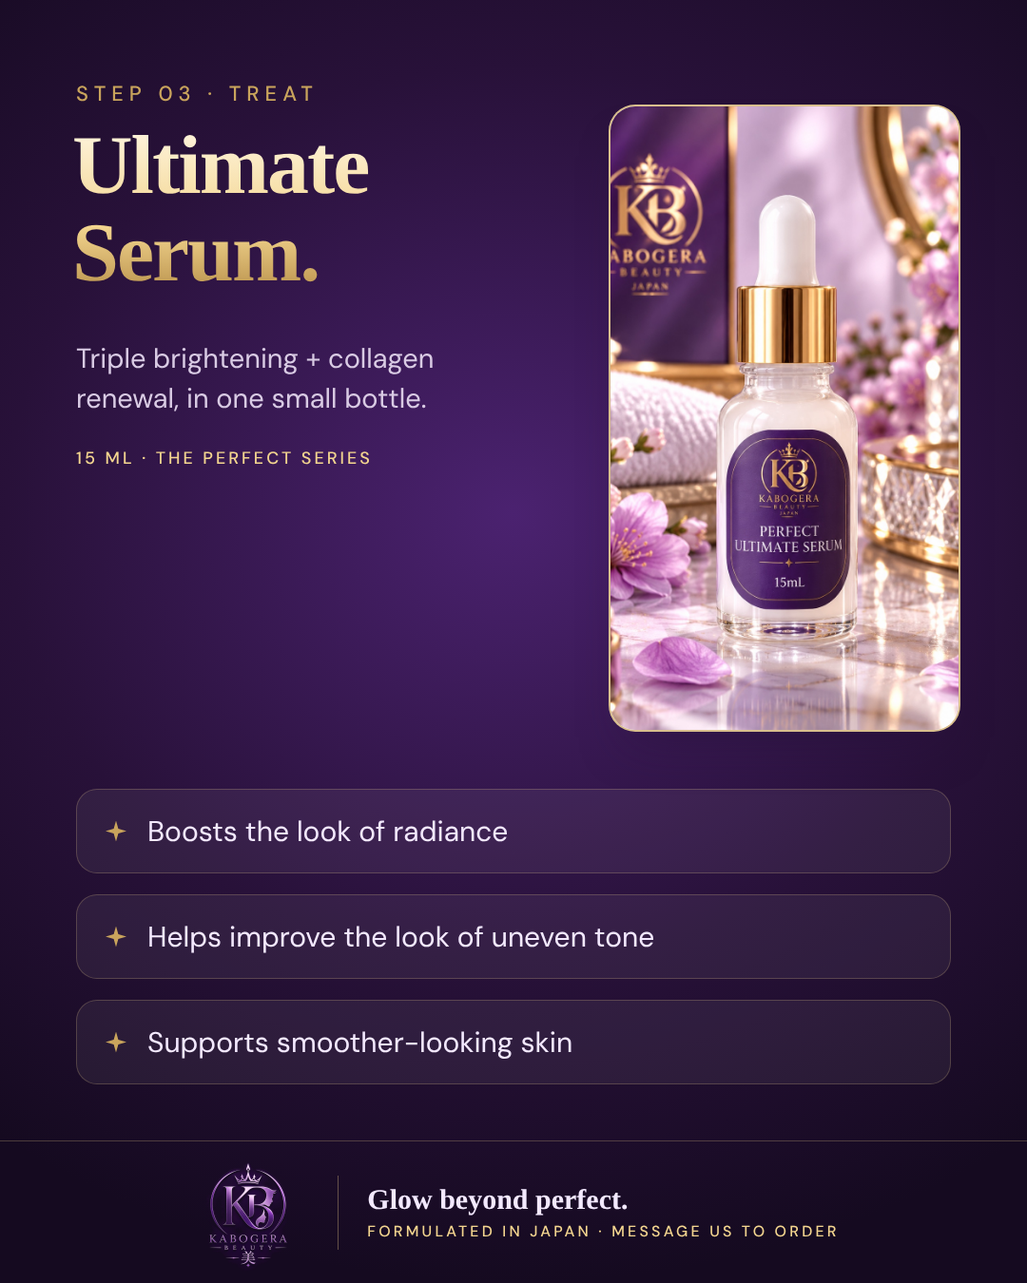
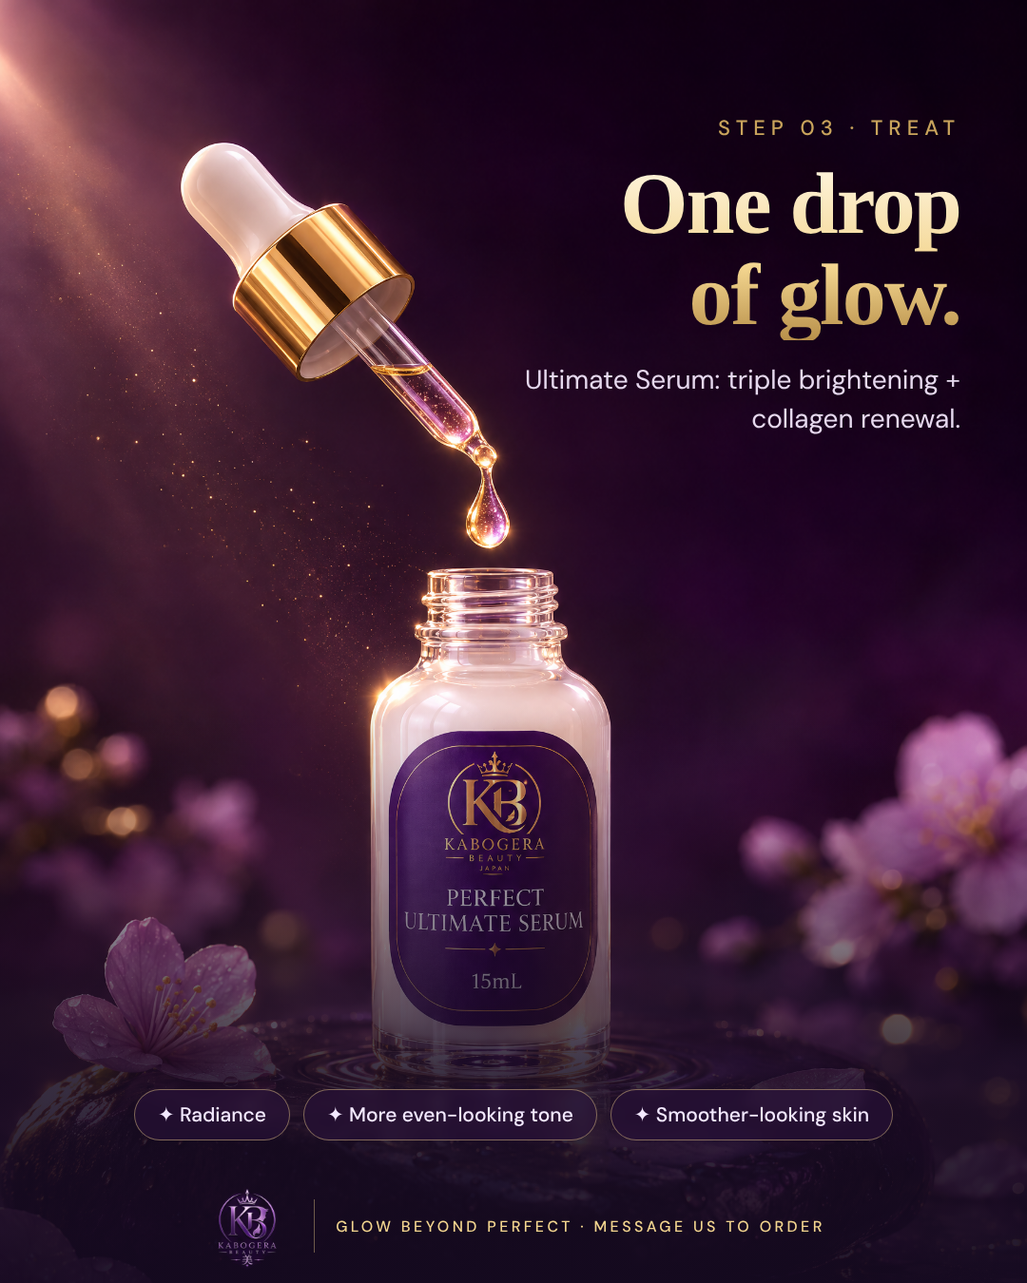
Rebuild five feed posts around new generated product scenes
Claude-Session: https://claude.ai/code/session_018m6AS44vmDstnCJZ4AYpxV

diff --git a/ads/03-feed-posts/04-am-pm-routine.html b/ads/03-feed-posts/04-am-pm-routine.html
@@ -1,34 +1,35 @@
 <!doctype html><html lang="en"><head><meta charset="utf-8"><link rel="stylesheet" href="brand.css"><title>Kabogera post</title><style>
-.p4 { background: var(--cream); }
-.p4 .half { position:absolute; top:0; bottom:150px; width:540px; padding:90px 0 0; text-align:center; }
-.p4 .am { left:0; background: linear-gradient(180deg, #fbf3e4 0%, #f6efe9 100%); }
-.p4 .pm { right:0; background: radial-gradient(ellipse at 50% 30%, #4b2270, #281139 70%); color:#f3e9ff; }
-.p4 .ic { font:400 54px/1 Serif; color:var(--gold); }
-.p4 .t { margin-top:14px; font:600 76px/1 Serif; letter-spacing:-1px; }
-.p4 .am .t { color:var(--violet); } .p4 .pm .t { color:#fff3dc; }
-.p4 .s { margin-top:12px; font:500 17px Sans; letter-spacing:4px; color:var(--gold); }
-.p4 .steps { margin:64px auto 0; width:440px; display:grid; gap:34px; }
-.p4 .st { display:flex; align-items:center; gap:22px; text-align:left; }
-.p4 .st .circ { width:150px; height:150px; flex:none; }
-.p4 .st b { display:block; font:600 17px Sans; letter-spacing:3px; color:var(--gold); }
-.p4 .st span { font:600 31px/1.2 Serif; }
-.p4 .am .st span { color:var(--violet); } .p4 .pm .st span { color:#f3e9ff; }
-.p4 .note { position:absolute; bottom:180px; left:0; right:0; text-align:center; }
-.p4 .note .fine { display:inline-block; background:rgba(255,255,255,.92); padding:10px 22px; border-radius:30px; color:#6c5a72; }
-</style></head><body><div class="post p4" id="post">
-  <div class="half am"><div class="ic">☀</div><div class="t">Morning</div><div class="s">FRESH · PROTECTED</div>
-    <div class="steps">
-      <div class="st"><div class="circ"><img src="../../brand/assets/perfect-bar-soap.jpeg" style="transform:scale(1.5)"></div><div><b>CLEANSE</b><span>Perfect Bar Soap</span></div></div>
-      <div class="st"><div class="circ"><img src="../../brand/assets/ultimate-serum.jpeg" style="object-position:50% 50%;transform:scale(1.5)"></div><div><b>TREAT</b><span>Ultimate Serum</span></div></div>
-      <div class="st"><div class="circ"><img src="../../brand/assets/illuminating-uv-gel.jpeg" style="transform:scale(1.5)"></div><div><b>PROTECT</b><span>Illuminating UV Gel SPF 50</span></div></div>
-    </div></div>
-  <div class="half pm"><div class="ic">☾</div><div class="t">Evening</div><div class="s">CLEANSE · RENEW</div>
-    <div class="steps">
-      <div class="st"><div class="circ"><img src="../../brand/assets/perfect-bar-soap.jpeg" style="transform:scale(1.5)"></div><div><b>CLEANSE</b><span>Perfect Bar Soap</span></div></div>
-      <div class="st"><div class="circ"><img src="../../brand/assets/multi-action-essence.jpeg" style="transform:scale(1.5)"></div><div><b>EXFOLIATE</b><span>Multi Action Essence*</span></div></div>
-      <div class="st"><div class="circ"><img src="../../brand/assets/ultimate-serum.jpeg" style="transform:scale(1.5)"></div><div><b>TREAT</b><span>Ultimate Serum</span></div></div>
-      <div class="st"><div class="circ"><img src="../../brand/assets/night-cream.jpeg" style="object-position:62% 55%;transform:scale(1.3)"></div><div><b>RENEW</b><span>Renew &amp; Resurfacing Night Cream</span></div></div>
-    </div></div>
-  <div class="note"><span class="fine">*Contains glycolic acid. Use as often as the label and your skin allow.</span></div>
-  <div class="band"><img src="../../brand/assets/kabogera-logo-cutout-512.png" alt=""><div class="sep"></div><div><div class="t1">Glow beyond perfect.</div><div class="t2">FORMULATED IN JAPAN · MESSAGE US TO ORDER</div></div></div>
+.bg { position:absolute; inset:0; width:100%; height:100%; object-fit:cover; }
+.foot { position:absolute; left:0; right:0; bottom:0; height:120px; display:flex; align-items:center; justify-content:center; gap:22px; color:#f3e9ff; }
+.foot img { width:96px; height:96px; } .foot .sep { width:1px; height:56px; background:rgba(243,213,143,.4); }
+.foot .t { font:500 16px Sans; letter-spacing:3.4px; color:var(--goldhi); }
+.pill { display:inline-block; padding:12px 24px; border-radius:40px; font:500 21px Sans; }
+
+.p .half { position:absolute; left:0; right:0; height:615px; overflow:hidden; }
+.p .am { top:0; } .p .pm { top:615px; }
+.p .half img { position:absolute; width:760px; height:950px; }
+.p .am { background:#fbf3e6; } .p .pm { background:#1d0d2a; }
+.p .am img { left:390px; top:-335px; } .p .pm img { left:380px; top:-330px; }
+.p .am::after { content:""; position:absolute; top:0; bottom:0; left:380px; width:160px; background:linear-gradient(90deg, #fbf3e6, rgba(251,243,230,0)); }
+.p .pm::after { content:""; position:absolute; top:0; bottom:0; left:370px; width:160px; background:linear-gradient(90deg, #1d0d2a, rgba(29,13,42,0)); }
+.p .lab { position:absolute; z-index:2; top:80px; width:400px; }
+.p .am .lab, .p .pm .lab { left:64px; }
+.p .lab .ic { font:400 46px/1 Serif; color:var(--gold); }
+.p .lab .t { font:600 76px/1.05 Serif; letter-spacing:-1px; margin-top:6px; }
+.p .am .t { color:var(--violet); } .p .pm .t { color:#fff3dc; }
+.p .lab ol { list-style:none; margin-top:20px; display:grid; gap:10px; font:500 24px Sans; }
+.p .am ol { color:#3f2f4b; } .p .pm ol { color:#eadff2; }
+.p .lab ol b { color:var(--gold); font-weight:600; margin-right:10px; }
+
+.p .fine2 { position:absolute; z-index:3; left:0; right:0; bottom:128px; text-align:center; font:400 16px Sans; color:rgba(234,223,242,.8); }
+.p .foot { background: rgba(21,10,32,.96); height:110px; z-index:3; }
+.p .line { position:absolute; left:0; right:0; top:613px; height:4px; background:linear-gradient(90deg, transparent, var(--gold), transparent); z-index:3; }
+</style></head><body><div class="post p" id="post" style="background:#150a20">
+  <div class="half am"><img src="images/morning.png"><div class="lab"><div class="ic">☀</div><div class="t">Morning</div>
+    <ol><li><b>01</b>Perfect Bar Soap</li><li><b>02</b>Ultimate Serum</li><li><b>03</b>UV Gel SPF 50</li></ol></div></div>
+  <div class="half pm"><img src="images/evening.png"><div class="lab"><div class="ic">☾</div><div class="t">Evening</div>
+    <ol><li><b>01</b>Perfect Bar Soap</li><li><b>02</b>Multi Action Essence*</li><li><b>03</b>Ultimate Serum</li><li><b>04</b>Night Cream</li></ol></div></div>
+  <div class="line"></div>
+  <div class="fine2">*Contains glycolic acid. Use as often as the label and your skin allow.</div>
+  <div class="foot"><img src="../../brand/assets/kabogera-logo-cutout-512.png" alt=""><div class="sep"></div><div class="t">GLOW BEYOND PERFECT · MESSAGE US TO ORDER</div></div>
 </div></body></html>

diff --git a/ads/03-feed-posts/03-bar-soap-ingredients.html b/ads/03-feed-posts/03-bar-soap-ingredients.html
@@ -1,26 +1,28 @@
 <!doctype html><html lang="en"><head><meta charset="utf-8"><link rel="stylesheet" href="brand.css"><title>Kabogera post</title><style>
-.p3 .eyebrow { position:absolute; top:84px; left:80px; }
-.p3 .h { position:absolute; top:128px; left:76px; width:600px; font-size:80px; }
-.p3 .lede { position:absolute; top:318px; left:80px; width:540px; font:400 27px/1.45 Sans; color:#5c4a68; }
-.p3 .card { position:absolute; top:84px; right:70px; width:300px; height:380px; transform:rotate(3deg); }
-.p3 .grid { position:absolute; top:520px; left:70px; right:70px; display:grid; grid-template-columns:1fr 1fr; gap:20px; }
-.p3 .ing { background:#fff; border-radius:24px; padding:28px 30px; border:1px solid rgba(201,164,92,.45); box-shadow:0 20px 34px -26px rgba(72,36,102,.5); }
-.p3 .ing b { display:block; font:600 32px Serif; color:var(--violet); margin-bottom:8px; }
-.p3 .ing span { font:400 23px/1.4 Sans; color:#5c4a68; }
-.p3 .ing.wide { grid-column: span 2; }
-.p3 .fine { position:absolute; top:1146px; left:80px; right:80px; }
-</style></head><body><div class="post light p3" id="post">
-  <div class="eyebrow">KNOW YOUR SKINCARE</div>
-  <div class="h">What's in your Perfect Bar Soap.</div>
-  <div class="lede">Step 01 of the ritual: a refreshing cleanse that prepares skin for the next steps.</div>
-  <div class="card"><img src="../../brand/assets/perfect-bar-soap.jpeg" style="object-position:50% 55%"></div>
-  <div class="grid">
-    <div class="ing"><b>Niacinamide</b><span>Supports a more even-looking skin tone.</span></div>
-    <div class="ing"><b>Glycolic acid</b><span>An exfoliating AHA.</span></div>
-    <div class="ing"><b>Glutathione</b><span>An antioxidant ingredient.</span></div>
-    <div class="ing"><b>Glycerin &amp; panthenol</b><span>With sodium lactate, help support skin hydration.</span></div>
-    <div class="ing wide"><b>Bearberry, licorice &amp; papaya</b><span>Botanical extracts included in the formula.</span></div>
-  </div>
+.bg { position:absolute; inset:0; width:100%; height:100%; object-fit:cover; }
+.foot { position:absolute; left:0; right:0; bottom:0; height:120px; display:flex; align-items:center; justify-content:center; gap:22px; color:#f3e9ff; }
+.foot img { width:96px; height:96px; } .foot .sep { width:1px; height:56px; background:rgba(243,213,143,.4); }
+.foot .t { font:500 16px Sans; letter-spacing:3.4px; color:var(--goldhi); }
+.pill { display:inline-block; padding:12px 24px; border-radius:40px; font:500 21px Sans; }
+
+.p .txt { position:absolute; left:0; right:0; top:84px; text-align:center; }
+.p .h { font-size:82px; }
+.p .tag { position:absolute; padding:12px 20px; border-radius:18px; background:rgba(255,255,255,.93); box-shadow:0 14px 26px -16px rgba(72,36,102,.55); border:1px solid rgba(201,164,92,.5); }
+.p .tag b { display:block; font:600 25px Serif; color:var(--violet); } .p .tag span { font:400 17px Sans; color:#5c4a68; }
+.p .tag::before { content:""; position:absolute; width:12px; height:12px; border-radius:50%; background:var(--gold); border:3px solid #fff; box-shadow:0 0 0 1px var(--gold); }
+.p .t1 { left:60px; top:370px; } .p .t1::before { right:-10px; top:50%; }
+.p .t2 { right:56px; top:360px; } .p .t2::before { left:-10px; top:50%; }
+.p .t3 { right:40px; top:1000px; text-align:right; } .p .t3::before { left:-10px; top:20%; }
+.p .t4 { left:50px; top:1010px; }  .p .t4::before { right:-10px; top:30%; }
+.p .sub3 { margin-top:14px; font:500 24px Sans; color:#4a3a56; }
+.p .fine { position:absolute; left:0; right:0; bottom:110px; height:44px; line-height:44px; text-align:center; color:#f3e9ff; background:rgba(40,17,57,.85); font-size:16px; }
+.p .foot { background: linear-gradient(0deg, rgba(40,17,57,.95), rgba(40,17,57,.85)); height:110px; }
+</style></head><body><div class="post light p" id="post">
+  <img class="bg" src="images/soap-ingredients.png">
+  <div class="txt"><div class="eyebrow" style="margin-bottom:14px">KNOW YOUR SKINCARE</div><div class="h">Inside the Perfect Bar Soap.</div><div class="sub3">With niacinamide, glycolic acid, glutathione &amp; glycerin, plus botanicals:</div></div>
+  <div class="tag t1"><b>Papaya extract</b><span>A botanical in the formula</span></div>
+  <div class="tag t2"><b>Bearberry extract</b><span>A botanical in the formula</span></div>
+  <div class="tag t3"><b>Licorice extract</b><span>A botanical in the formula</span></div>
   <div class="fine">From our product label. Results depend on the complete formula and your skin. Patch test first.</div>
-  <div class="band"><img src="../../brand/assets/kabogera-logo-cutout-512.png" alt=""><div class="sep"></div><div><div class="t1">Glow beyond perfect.</div><div class="t2">FORMULATED IN JAPAN · MESSAGE US TO ORDER</div></div></div>
+  <div class="foot"><img src="../../brand/assets/kabogera-logo-cutout-512.png" alt=""><div class="sep"></div><div class="t">GLOW BEYOND PERFECT · MESSAGE US TO ORDER</div></div>
 </div></body></html>

diff --git a/ads/03-feed-posts/02-uv-gel-spf50.html b/ads/03-feed-posts/02-uv-gel-spf50.html
@@ -1,26 +1,21 @@
 <!doctype html><html lang="en"><head><meta charset="utf-8"><link rel="stylesheet" href="brand.css"><title>Kabogera post</title><style>
-.p2 .eyebrow { position:absolute; top:84px; left:0; right:0; text-align:center; }
-.p2 .h { position:absolute; top:130px; left:0; right:0; text-align:center; font-size:104px; }
-.p2 .ring { position:absolute; left:50%; top:330px; width:640px; height:640px; margin-left:-320px; border-radius:50%;
-  background: radial-gradient(circle, #fff7e4 0%, #f9ecd0 45%, rgba(249,236,208,0) 70%); }
-.p2 .ring::before { content:""; position:absolute; inset:40px; border-radius:50%; border:2px dashed rgba(201,164,92,.6); }
-.p2 .ring::after { content:""; position:absolute; inset:100px; border-radius:50%; border:3px solid var(--gold); }
-.p2 .circ { position:absolute; left:50%; top:470px; width:360px; height:360px; margin-left:-180px; }
-.p2 .badge { position:absolute; left:calc(50% + 110px); top:430px; width:150px; height:150px; border-radius:50%; background:var(--plum); color:var(--goldhi);
-  display:flex; flex-direction:column; align-items:center; justify-content:center; box-shadow:0 18px 30px -14px rgba(40,17,57,.6); border:3px solid var(--gold); }
-.p2 .badge b { font:600 54px/1 Serif; } .p2 .badge span { font:600 15px Sans; letter-spacing:3px; margin-top:4px; }
-.p2 .name { position:absolute; top:1000px; left:0; right:0; text-align:center; font:600 40px Serif; color:var(--violet); }
-.p2 .lines { position:absolute; top:1062px; left:0; right:0; display:flex; justify-content:center; gap:16px; }
-.p2 .lines span { padding:12px 22px; border-radius:40px; background:#fff; border:1px solid rgba(201,164,92,.6); font:500 21px Sans; color:var(--ink); }
-.p2 .fine { position:absolute; top:1140px; left:0; right:0; text-align:center; }
-</style></head><body><div class="post light p2" id="post">
-  <div class="eyebrow">STEP 04 · PROTECT</div>
-  <div class="h">Don't skip SPF.</div>
-  <div class="ring"></div>
-  <div class="circ"><img src="../../brand/assets/illuminating-uv-gel.jpeg" style="object-position:50% 42%;transform:scale(1.45)"></div>
+.bg { position:absolute; inset:0; width:100%; height:100%; object-fit:cover; }
+.foot { position:absolute; left:0; right:0; bottom:0; height:120px; display:flex; align-items:center; justify-content:center; gap:22px; color:#f3e9ff; }
+.foot img { width:96px; height:96px; } .foot .sep { width:1px; height:56px; background:rgba(243,213,143,.4); }
+.foot .t { font:500 16px Sans; letter-spacing:3.4px; color:var(--goldhi); }
+.pill { display:inline-block; padding:12px 24px; border-radius:40px; font:500 21px Sans; }
+
+.p .txt { position:absolute; left:80px; top:110px; width:640px; }
+.p .h { font-size:112px; line-height:.98; }
+.p .lede { margin-top:24px; font:400 29px/1.45 Sans; color:#4a3a56; width:520px; }
+.p .badge { position:absolute; right:84px; top:112px; width:170px; height:170px; border-radius:50%; background:var(--plum); border:3px solid var(--gold); color:var(--goldhi);
+  display:flex; flex-direction:column; align-items:center; justify-content:center; box-shadow:0 20px 34px -16px rgba(40,17,57,.6); }
+.p .badge b { font:600 64px/1 Serif; } .p .badge span { font:600 16px Sans; letter-spacing:4px; margin-top:4px; }
+.p .foot { background: linear-gradient(0deg, rgba(40,17,57,.92), rgba(40,17,57,0)); height:170px; padding-top:40px; }
+</style></head><body><div class="post light p" id="post">
+  <img class="bg" src="images/uvgel-sun.png">
+  <div class="txt"><div class="eyebrow" style="margin-bottom:18px">STEP 04 · PROTECT</div><div class="h">Sun's out.<br>SPF on.</div>
+    <div class="lede">Illuminating UV Gel: daily SPF 50 with a lightweight gel feel. The last step of every morning.</div></div>
   <div class="badge"><b>50</b><span>SPF</span></div>
-  <div class="name">Illuminating UV Gel</div>
-  <div class="lines"><span>Daily UV protection</span><span>Lightweight gel feel</span><span>Completes your AM routine</span></div>
-  <div class="fine">Use daily as the last step of your morning routine. Follow the label.</div>
-  <div class="band"><img src="../../brand/assets/kabogera-logo-cutout-512.png" alt=""><div class="sep"></div><div><div class="t1">Glow beyond perfect.</div><div class="t2">FORMULATED IN JAPAN · MESSAGE US TO ORDER</div></div></div>
+  <div class="foot"><img src="../../brand/assets/kabogera-logo-cutout-512.png" alt=""><div class="sep"></div><div class="t">GLOW BEYOND PERFECT · MESSAGE US TO ORDER</div></div>
 </div></body></html>

diff --git a/ads/03-feed-posts/05-join-the-family.html b/ads/03-feed-posts/05-join-the-family.html
@@ -1,28 +1,19 @@
 <!doctype html><html lang="en"><head><meta charset="utf-8"><link rel="stylesheet" href="brand.css"><title>Kabogera post</title><style>
-.p5 .eyebrow { position:absolute; top:84px; left:0; right:0; text-align:center; }
-.p5 .h { position:absolute; top:128px; left:0; right:0; text-align:center; }
-.p5 .grid { position:absolute; top:360px; left:50%; margin-left:-340px; display:grid; grid-template-columns:repeat(3,200px); gap:40px; }
-.p5 .circ img { object-position:50% 8%; transform:scale(1.75) translateY(10%); }
-.p5 .you { width:200px; height:200px; border-radius:50%; border:3px dashed var(--goldhi); display:flex; align-items:center; justify-content:center; font:600 44px Serif; color:var(--goldhi); }
-.p5 .offer { position:absolute; top:1090px; left:0; right:0; text-align:center; font:400 26px/1.45 Sans; color:#e3d6ec; }
-.p5 .offer b { color:var(--goldhi); font-weight:600; }
-.p5 .band { height:150px; }
-.p5 .fine { position:absolute; top:1180px; left:0; right:0; text-align:center; }
-</style></head><body><div class="post dark p5" id="post">
-  <div class="eyebrow">GROW WITH THE GLOW</div>
-  <div class="h">Join the<br>Kabogera family.</div>
-  <div class="grid">
-    <div class="circ" style="width:200px;height:200px"><img src="../../brand/assets/distributor-rein.jpeg"></div>
-    <div class="circ" style="width:200px;height:200px"><img src="../../brand/assets/distributor-icel.jpeg"></div>
-    <div class="circ" style="width:200px;height:200px"><img src="../../brand/assets/distributor-geneziel.jpeg"></div>
-    <div class="circ" style="width:200px;height:200px"><img src="../../brand/assets/distributor-coach-yeng.jpeg"></div>
-    <div class="you">You?</div>
-    <div class="circ" style="width:200px;height:200px"><img src="../../brand/assets/distributor-shaira.jpeg"></div>
-    <div class="circ" style="width:200px;height:200px"><img src="../../brand/assets/distributor-rowena.jpeg"></div>
-    <div class="circ" style="width:200px;height:200px"><img src="../../brand/assets/distributor-manilyn.jpeg"></div>
-    <div class="circ" style="width:200px;height:200px"><img src="../../brand/assets/distributor-arvin-jessa.jpeg"></div>
-  </div>
-  <div class="offer">Become an <b>affiliate</b> or <b>reseller</b>. Affiliates can earn <b>10% commission</b><br>on qualifying purchases. No inventory, packing or shipping.</div>
-  <div class="fine">Approval and program terms apply.</div>
-  <div class="band"><img src="../../brand/assets/kabogera-logo-cutout-512.png" alt=""><div class="sep"></div><div><div class="t1">Message us to apply.</div><div class="t2">AFFILIATES · RESELLERS · DISTRIBUTORS</div></div></div>
+.bg { position:absolute; inset:0; width:100%; height:100%; object-fit:cover; }
+.foot { position:absolute; left:0; right:0; bottom:0; height:120px; display:flex; align-items:center; justify-content:center; gap:22px; color:#f3e9ff; }
+.foot img { width:96px; height:96px; } .foot .sep { width:1px; height:56px; background:rgba(243,213,143,.4); }
+.foot .t { font:500 16px Sans; letter-spacing:3.4px; color:var(--goldhi); }
+.pill { display:inline-block; padding:12px 24px; border-radius:40px; font:500 21px Sans; }
+
+.p .txt { position:absolute; left:0; right:0; top:84px; text-align:center; }
+.p .h { font-size:92px; }
+.p .offer { margin:18px auto 0; width:860px; font:400 25px/1.5 Sans; color:#3f2f4b; }
+.p .offer b { color:var(--violet); font-weight:600; }
+.p .offer .fine { display:block; margin-top:4px; font-size:16px; color:#6c5a72; }
+.p .foot { background: rgba(40,17,57,.96); height:120px; }
+.p .foot .t2 { font:600 28px Serif; color:#fff3dc; }
+</style></head><body><div class="post light p" id="post">
+  <img class="bg" src="images/family-hands.png">
+  <div class="txt"><div class="eyebrow" style="margin-bottom:14px">GROW WITH THE GLOW</div><div class="h">Better together.</div><div class="offer">Join the Kabogera family as an <b>affiliate</b> or <b>reseller</b>.<br>Affiliates can earn <b>10% commission</b> on qualifying purchases:<br>no inventory, packing or shipping.<span class="fine">Approval and program terms apply.</span></div></div>
+  <div class="foot"><img src="../../brand/assets/kabogera-logo-cutout-512.png" alt=""><div class="sep"></div><div class="t2">Message us to apply.</div></div>
 </div></body></html>

diff --git a/ads/03-feed-posts/01-ultimate-serum.html b/ads/03-feed-posts/01-ultimate-serum.html
@@ -1,21 +1,22 @@
 <!doctype html><html lang="en"><head><meta charset="utf-8"><link rel="stylesheet" href="brand.css"><title>Kabogera post</title><style>
-.p1 .eyebrow { position:absolute; top:84px; left:80px; }
-.p1 .h { position:absolute; top:128px; left:76px; width:560px; }
-.p1 .lede { position:absolute; top:356px; left:80px; width:470px; font:400 29px/1.45 Sans; color:#d9cbe4; }
-.p1 .size { position:absolute; top:470px; left:80px; font:500 18px Sans; letter-spacing:3px; color:var(--goldhi); }
-.p1 .card { position:absolute; top:110px; right:70px; width:370px; height:660px; }
-.p1 ul { position:absolute; top:830px; left:80px; right:80px; list-style:none; display:grid; gap:22px; }
-.p1 li { display:flex; align-items:center; gap:22px; padding:24px 30px; border-radius:22px; background:rgba(255,255,255,.06); border:1px solid rgba(243,213,143,.22); font:400 30px Sans; color:#f3e9ff; }
-</style></head><body><div class="post dark p1" id="post">
-  <div class="eyebrow">STEP 03 · TREAT</div>
-  <div class="h">Ultimate<br>Serum.</div>
-  <div class="lede">Triple brightening + collagen renewal, in one small bottle.</div>
-  <div class="size">15 ML · THE PERFECT SERIES</div>
-  <div class="card"><img src="../../brand/assets/ultimate-serum.jpeg" style="object-position:50% 45%"></div>
-  <ul>
-    <li><span class="star"></span>Boosts the look of radiance</li>
-    <li><span class="star"></span>Helps improve the look of uneven tone</li>
-    <li><span class="star"></span>Supports smoother-looking skin</li>
-  </ul>
-  <div class="band"><img src="../../brand/assets/kabogera-logo-cutout-512.png" alt=""><div class="sep"></div><div><div class="t1">Glow beyond perfect.</div><div class="t2">FORMULATED IN JAPAN · MESSAGE US TO ORDER</div></div></div>
+.bg { position:absolute; inset:0; width:100%; height:100%; object-fit:cover; }
+.foot { position:absolute; left:0; right:0; bottom:0; height:120px; display:flex; align-items:center; justify-content:center; gap:22px; color:#f3e9ff; }
+.foot img { width:96px; height:96px; } .foot .sep { width:1px; height:56px; background:rgba(243,213,143,.4); }
+.foot .t { font:500 16px Sans; letter-spacing:3.4px; color:var(--goldhi); }
+.pill { display:inline-block; padding:12px 24px; border-radius:40px; font:500 21px Sans; }
+
+.p .scrim { position:absolute; inset:0; background: linear-gradient(180deg, rgba(21,10,32,.0) 0%, rgba(21,10,32,0) 55%, rgba(21,10,32,.85) 84%, rgba(21,10,32,.95) 100%); }
+.p .txt { position:absolute; right:70px; top:120px; width:470px; text-align:right; }
+.p .eyebrow { margin-bottom:18px; }
+.p .h { font-size:92px; }
+.p .lede { margin-top:22px; font:400 28px/1.45 Sans; color:#e6d9ee; }
+.p .row { position:absolute; left:70px; right:70px; bottom:150px; display:flex; gap:14px; justify-content:center; }
+.p .row .pill { background:rgba(40,17,57,.6); border:1px solid rgba(243,213,143,.45); color:#f3e9ff; backdrop-filter: blur(6px); }
+</style></head><body><div class="post dark p" id="post">
+  <img class="bg" src="images/serum-drop.png">
+  <div class="scrim"></div>
+  <div class="txt"><div class="eyebrow">STEP 03 · TREAT</div><div class="h">One drop<br>of glow.</div>
+    <div class="lede">Ultimate Serum: triple brightening + collagen renewal.</div></div>
+  <div class="row"><span class="pill">✦ Radiance</span><span class="pill">✦ More even-looking tone</span><span class="pill">✦ Smoother-looking skin</span></div>
+  <div class="foot"><img src="../../brand/assets/kabogera-logo-cutout-512.png" alt=""><div class="sep"></div><div class="t">GLOW BEYOND PERFECT · MESSAGE US TO ORDER</div></div>
 </div></body></html>

diff --git a/ads/03-feed-posts/captions.md b/ads/03-feed-posts/captions.md
@@ -1,6 +1,10 @@
 # Kabogera feed posts: captions
 
+Images in `images/` were generated with GPT Image 2.6 (via Higgsfield) from the real product photos as references; all text is set in the layouts, not generated.
+
 ## 01 · Ultimate Serum
+One drop of glow. 💧✨
+
 Meet step 03 of your ritual: the Ultimate Serum. 💜
 
 Triple brightening + collagen renewal in one 15 ml bottle.
@@ -14,7 +18,7 @@ Individual results may vary. Patch test first.
 #KabogeraBeauty #UltimateSerum #GlowBeyondPerfect #ThePerfectSeries #FormulatedInJapan
 
 ## 02 · Illuminating UV Gel SPF 50
-Don't skip SPF. ☀
+Sun's out. SPF on. ☀😎
 
 The Illuminating UV Gel is the last step of your morning routine: daily SPF 50 protection with a lightweight gel feel.
 
@@ -25,7 +29,7 @@ Your serum works hard. Let your sunscreen protect that glow. ✨
 #KabogeraBeauty #SPF50 #IlluminatingUVGel #SunscreenEveryday #GlowBeyondPerfect
 
 ## 03 · Perfect Bar Soap ingredients
-Know your skincare: what's inside the Perfect Bar Soap? 🧼
+Know your skincare: what's inside the Perfect Bar Soap? 🧼🍈
 
 🔹 Niacinamide: supports a more even-looking skin tone
 🔹 Glycolic acid: an exfoliating AHA
@@ -61,7 +65,7 @@ Save this post for your routine! 📌 Message our page to order.
 #KabogeraBeauty #SkincareRoutine #AMPMRoutine #ThePerfectSeries #GlowBeyondPerfect
 
 ## 05 · Join the Kabogera family
-Grow with the glow. 💜
+Better together. 💜 Grow with the glow.
 
 Join our growing Kabogera family as an affiliate or reseller.
 ✦ Affiliates can earn 10% commission on qualifying purchases with their personal code
